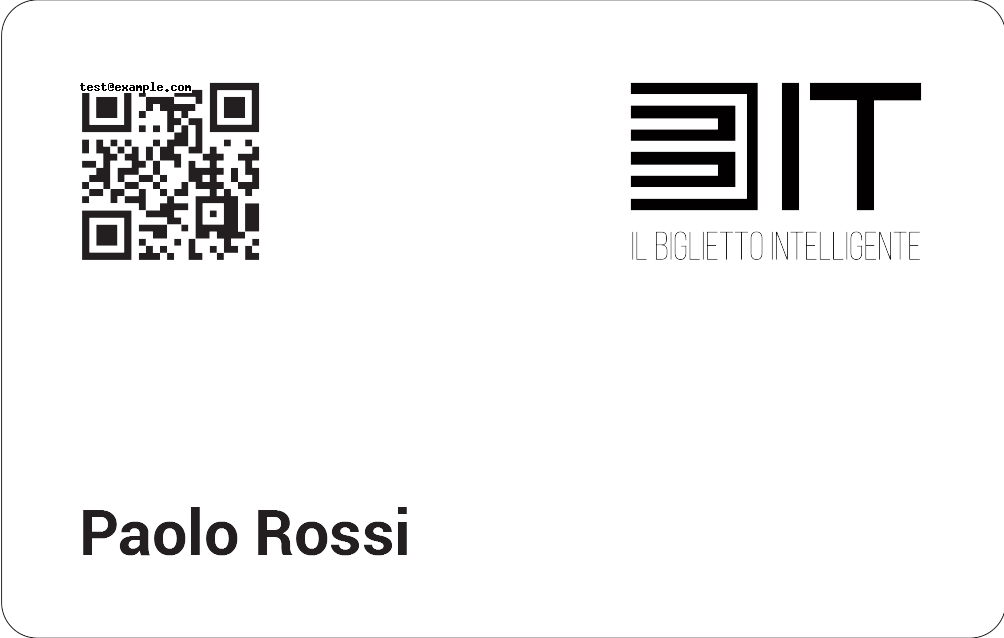
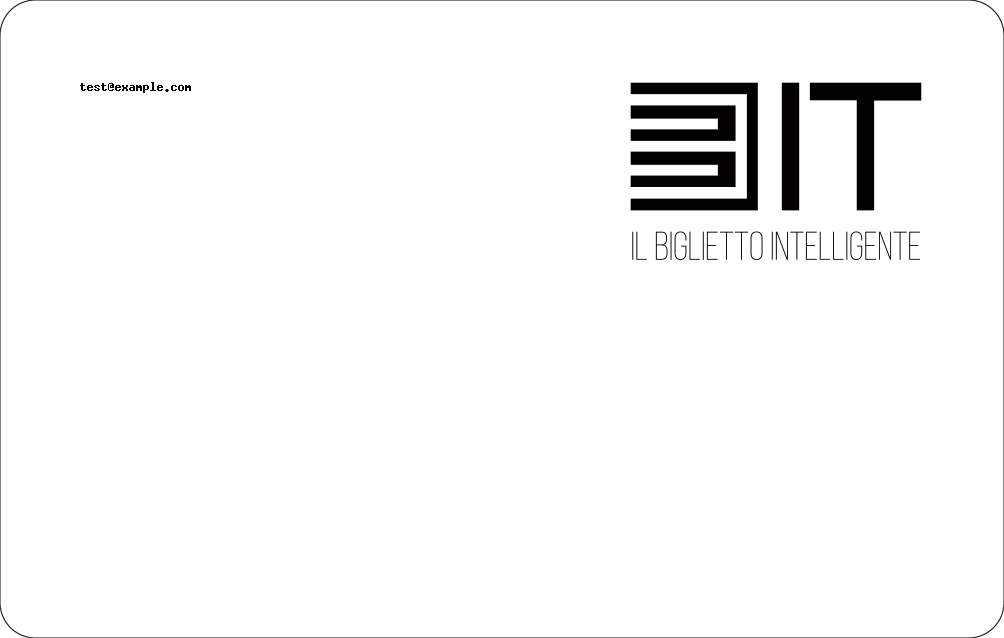
generating pic

diff --git a/Modules/Admin/Http/Controllers/AdminCardController.php b/Modules/Admin/Http/Controllers/AdminCardController.php
@@ -38,55 +38,6 @@ class AdminCardController extends Controller
     public function show($id)
     {
         $active = 2;
-
-        $image2 = 'images/download.png';
-        $image1 = 'cards/01.png';
-
-        list($width,$height) = getimagesize($image2);
-
-        $image1 = imagecreatefromstring(file_get_contents($image1));
-        $image2 = imagecreatefromstring(file_get_contents($image2));
-        imagealphablending($image1, false);
-        imagesavealpha($image1, true);
-        imagecopymerge($image1,$image2,80,80,0,0,$width,$height,100);
-//        header('Content-Type:image/png');
-//
-//        imagepng($image1);
-
-        imagepng($image1,'merged.png');
-
-        $image22 = 'images/download.png';
-        $image11 = 'merged.png';
-//        echo '<img src="'.asset('merged.png').'"/>';
-//
-        list($width,$height) = getimagesize($image22);
-//
-        $image11 = imagecreatefromstring(file_get_contents($image11));
-        $image22 = imagecreatefromstring(file_get_contents($image22));
-        imagealphablending($image11, false);
-        imagesavealpha($image11, true);
-        imagecopymerge($image11,$image22,80,500,0,0,$width,$height,100);
-//        header('Content-Type:image/png');
-//        imagepng($image11);
-        imagepng($image11,'pic/merged-03.png');
-        $path = "pic/merged-03.png";
-        header('Content-Description: File Transfer');
-        header('Content-Type: application/octet-stream');
-        header('Content-Disposition: attachment; filename="'.basename($path).'"');
-        header('Expires: 0');
-        header('Cache-Control: must-revalidate');
-        header('Pragma: public');
-        header('Content-Length: ' . filesize($path));
-        flush(); // Flush system output buffer
-        readfile($path);
-
-        dd("hi");
-
-
-
-
-        imagepng($image1,'merged.png');
-
         $card = $this->cardService->getCard($id);
         $landing_url =$card->landing->id;
         return view('admin.adminShowCard',compact('active','card','landing_url'));
@@ -118,5 +69,53 @@ class AdminCardController extends Controller
         $data['status'] =$request->status;
         $this->cardService->updateCard($data,$card_id);
         return back();
+    }
+
+    public function downloadCard ($card_id){
+
+        $card = $this->cardService->getCard($card_id);
+        if ($card->type !=3){
+            $image1 = 'cardTemp/01.png';
+        }else{
+            $image1 = 'cardTemp/03.png';
+        }
+        $image2 = 'images/download.png';
+
+        list($width,$height) = getimagesize($image2);
+        $image1 = imagecreatefromstring(file_get_contents($image1));
+        $image2 = imagecreatefromstring(file_get_contents($image2));
+        imagealphablending($image1, false);
+        imagesavealpha($image1, true);
+        imagecopymerge($image1,$image2,80,80,0,0,$width,$height,100);
+//        header('Content-Type:image/png');
+//        imagepng($image1);
+
+        imagepng($image1,'merged.png');
+
+        $image22 = 'images/download.png';
+        $image11 = 'merged.png';
+
+        list($width,$height) = getimagesize($image22);
+        $image11 = imagecreatefromstring(file_get_contents($image11));
+        $image22 = imagecreatefromstring(file_get_contents($image22));
+        imagealphablending($image11, false);
+        imagesavealpha($image11, true);
+        imagecopymerge($image11,$image22,80,500,0,0,$width,$height,100);
+//        header('Content-Type:image/png');
+//        imagepng($image11);
+
+        imagepng($image11,'pic/merged-03.png');
+
+        $path = "pic/merged-03.png";
+        header('Content-Description: File Transfer');
+        header('Content-Type: application/octet-stream');
+        header('Content-Disposition: attachment; filename="'.basename($path).'"');
+        header('Expires: 0');
+        header('Cache-Control: must-revalidate');
+        header('Pragma: public');
+        header('Content-Length: ' . filesize($path));
+        flush(); // Flush system output buffer
+        readfile($path);
+
     }
 }

diff --git a/resources/views/admin/adminCards.blade.php b/resources/views/admin/adminCards.blade.php
@@ -68,8 +68,9 @@
                                     </td>
                                     <td>
                                         <a href="{{url("admin/card/$card->id/show")}}"><i class="far fa-edit text-warning mr-5 font-size-h2"></i></a>
+                                        <a href="{{url("admin/card/$card->id/downloadCard")}}"><i class="fas fa-download text-success mr-5 font-size-h2"></i></a>
                                         <a href="{{url("card/landing/".$card->landing->id."/show")}}" target="_blank"><i class="flaticon-eye mr-5 text-primary font-size-h2"></i></a>
-                                        <a href="{{url("admin/landing/".$card->landing->id."/edit")}}"><i class="far fa-address-card text-success mr-5 font-size-h2"></i></a>
+                                        <a href="{{url("admin/landing/".$card->landing->id."/edit")}}"><i class="far fa-address-card text-danger mr-5 font-size-h2"></i></a>
                                         <a href="{{url("admin/analysis/".$card->landing->id)}}"><i class="flaticon2-cardiogram text-info mr-5 font-size-h2"></i></a>
                                     </td>
                                 </tr>

diff --git a/Modules/Admin/Routes/web.php b/Modules/Admin/Routes/web.php
@@ -10,6 +10,7 @@ Route::group(['prefix'=>'admin','middleware'=>'auth'],function (){
             Route::get('/{card_id}/show','AdminCardController@show');
             Route::get('/{user_id}/userCards','AdminCardController@userCards');
             Route::post('/{card_id}/changeStatus','AdminCardController@changeStatus');
+            Route::get('/{card_id}/downloadCard','AdminCardController@downloadCard');
 
         });
 
